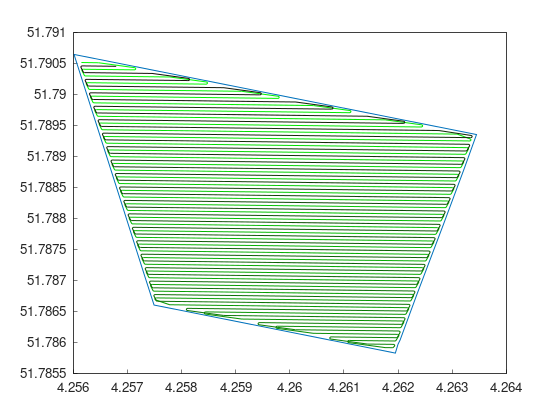
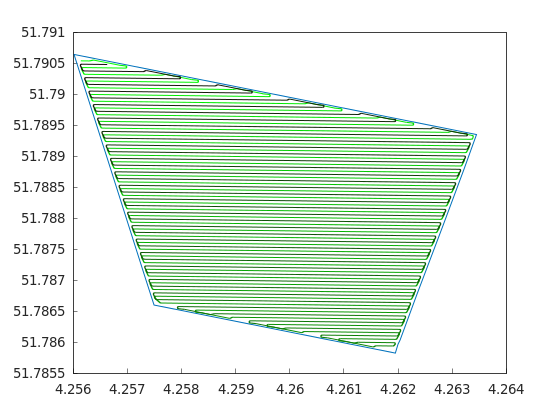
Drive the complete-flow tutorial through a connected route

diff --git a/tutorials/8_complete_flow.cpp b/tutorials/8_complete_flow.cpp
@@ -17,15 +17,18 @@ int main() {
 
   F2CRobot robot (2.0, 6.0);
   f2c::hg::ConstHL const_hl;
+  F2CCells mid_hl = const_hl.generateHeadlands(field.getField(), 1.5 * robot.getWidth());
   F2CCells no_hl = const_hl.generateHeadlands(field.getField(), 3.0 * robot.getWidth());
   f2c::sg::BruteForce bf;
-  F2CSwaths swaths = bf.generateSwaths(M_PI, robot.getCovWidth(), no_hl.getGeometry(0));
+  F2CSwathsByCells swaths = bf.generateSwaths(M_PI, robot.getCovWidth(), no_hl);
   f2c::rp::SnakeOrder snake_sorter;
-  swaths = snake_sorter.genSortedSwaths(swaths);
+  // genRoute connects the swaths through the headland. genSortedSwaths returns
+  // the order alone, and a snake skip would then cut over covered ground.
+  F2CRoute route = snake_sorter.genRoute(mid_hl, swaths);
   f2c::pp::PathPlanning path_planner;
   robot.setMinTurningRadius(2);  // m
   f2c::pp::DubinsCurves dubins;
-  F2CPath path = path_planner.planPath(robot, swaths, dubins);
+  F2CPath path = path_planner.planPath(robot, route, dubins);
 
 
   f2c::Visualizer::figure();

diff --git a/tutorials/python/8_complete_flow.py b/tutorials/python/8_complete_flow.py
@@ -17,16 +17,19 @@ f2c.Transform.transformToUTM(field);
 
 robot = f2c.Robot(2.0, 6.0);
 const_hl = f2c.HG_Const_gen()
+mid_hl = const_hl.generateHeadlands(field.getField(), 1.5 * robot.getWidth())
 no_hl = const_hl.generateHeadlands(field.getField(), 3.0 * robot.getWidth())
 bf = f2c.SG_BruteForce()
-swaths = bf.generateSwaths(math.pi, robot.getCovWidth(), no_hl.getGeometry(0))
+swaths = bf.generateSwaths(math.pi, robot.getCovWidth(), no_hl)
 snake_sorter = f2c.RP_Snake()
-swaths = snake_sorter.genSortedSwaths(swaths)
+# genRoute connects the swaths through the headland. genSortedSwaths returns
+# the order alone, and a snake skip would then cut over covered ground.
+route = snake_sorter.genRoute(mid_hl, swaths)
 
 robot.setMinTurningRadius(2)
 path_planner = f2c.PP_PathPlanning()
 dubins = f2c.PP_DubinsCurves()
-path = path_planner.planPath(robot, swaths, dubins);
+path = path_planner.planPath(robot, route, dubins);
 
 
 f2c.Visualizer.figure();

diff --git a/docs/source/tutorials/complete_flow.rst b/docs/source/tutorials/complete_flow.rst
@@ -72,14 +72,15 @@ Once we have the field in UTM, let's create a coverage path, as we did it in pre
     F2CRobot robot (2.0, 6.0);
     robot.setMinRadius(2);  // m
     f2c::hg::ConstHL const_hl;
+    F2CCells mid_hl = const_hl.generateHeadlands(field.getField(), 1.5 * robot.getWidth());
     F2CCells no_hl = const_hl.generateHeadlands(field.getField(), 3.0 * robot.getWidth());
     f2c::sg::BruteForce bf;
-    F2CSwaths swaths = bf.generateSwaths(M_PI, robot.getCovWidth(), no_hl.getGeometry(0));
+    F2CSwathsByCells swaths = bf.generateSwaths(M_PI, robot.getCovWidth(), no_hl);
     f2c::rp::SnakeOrder snake_sorter;
-    swaths = snake_sorter.genSortedSwaths(swaths);
+    F2CRoute route = snake_sorter.genRoute(mid_hl, swaths);
     f2c::pp::PathPlanning path_planner;
     f2c::pp::DubinsCurves dubins;
-    F2CPath path = path_planner.planPath(robot, swaths, dubins);
+    F2CPath path = path_planner.planPath(robot, route, dubins);
 
   .. code-tab:: python
     :caption: Python
@@ -87,15 +88,21 @@ Once we have the field in UTM, let's create a coverage path, as we did it in pre
     robot = f2c.Robot(2.0, 6.0);
     robot.setMinRadius(2);
     const_hl = f2c.HG_Const_gen()
+    mid_hl = const_hl.generateHeadlands(field.getField(), 1.5 * robot.getWidth())
     no_hl = const_hl.generateHeadlands(field.getField(), 3.0 * robot.getWidth())
     bf = f2c.SG_BruteForce()
-    swaths = bf.generateSwaths(math.pi, robot.getCovWidth(), no_hl.getGeometry(0))
+    swaths = bf.generateSwaths(math.pi, robot.getCovWidth(), no_hl)
     snake_sorter = f2c.RP_Snake()
-    swaths = snake_sorter.genSortedSwaths(swaths)
+    route = snake_sorter.genRoute(mid_hl, swaths)
     path_planner = f2c.PP_PathPlanning()
     dubins = f2c.PP_DubinsCurves()
-    path = path_planner.planPath(robot, swaths, dubins);
+    path = path_planner.planPath(robot, route, dubins);
 
+
+``genRoute`` returns the swaths in order *and* the connections between them, driven
+through the headland. ``genSortedSwaths`` returns the order alone; a snake or spiral
+skip would then be driven as a straight hop, cutting over ground that is already
+covered whenever the field is not convex.
 
 .. image:: ../../figures/Tutorial_8_1_UTM.png
 

diff --git a/CHANGELOG.md b/CHANGELOG.md
@@ -6,6 +6,14 @@ and this project adheres to [Semantic Versioning](https://semver.org/spec/v2.0.0
 
 ## [Unreleased]
 
+### Added
+- `SingleCellSwathsOrderBase::genRoute`, so BOUSTROPHEDON, SNAKE, SPIRAL and CUSTOM return a route with the connections driven through the headland, not a bare swath order. A bare order ignores the boundary, so a snake or spiral skip cuts over covered ground on a field that is not convex.
+- `SingleCellSwathsOrderBase::genSortedSwaths` overload taking `F2CSwathsByCells`, which orders each cell on its own so a pattern never runs across cells.
+
+### Fixed
+- `F2CSwathsByCells::flatten` gave every cell's swaths the ids they had inside that cell, so the ids repeated across cells. `F2CSwaths::sort` orders on the id alone, so ordering a flattened multi-cell set interleaved the cells instead of covering them one after another. Flattened swaths are now numbered from 0.
+- `f2c::rp::CustomOrder` accepted an order with duplicate or out-of-range values and only reported it when the order was used. It is now checked when it is set, and the order must be a permutation of `0..n-1`.
+
 ## [2.1.0] - 2026-09-03
 
 ### Added
